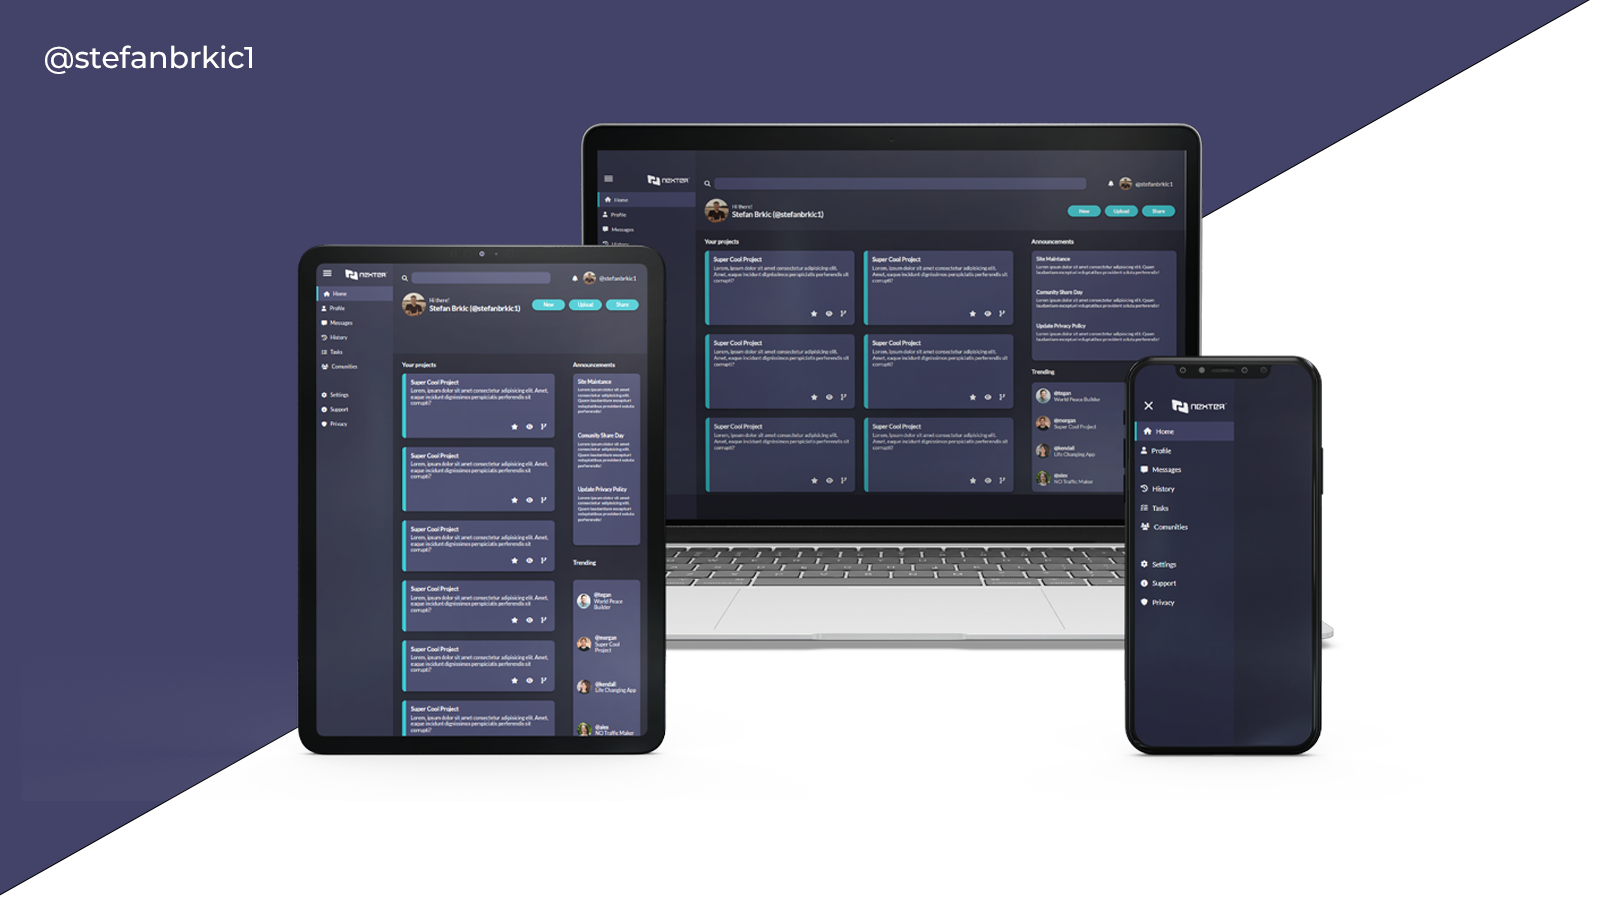
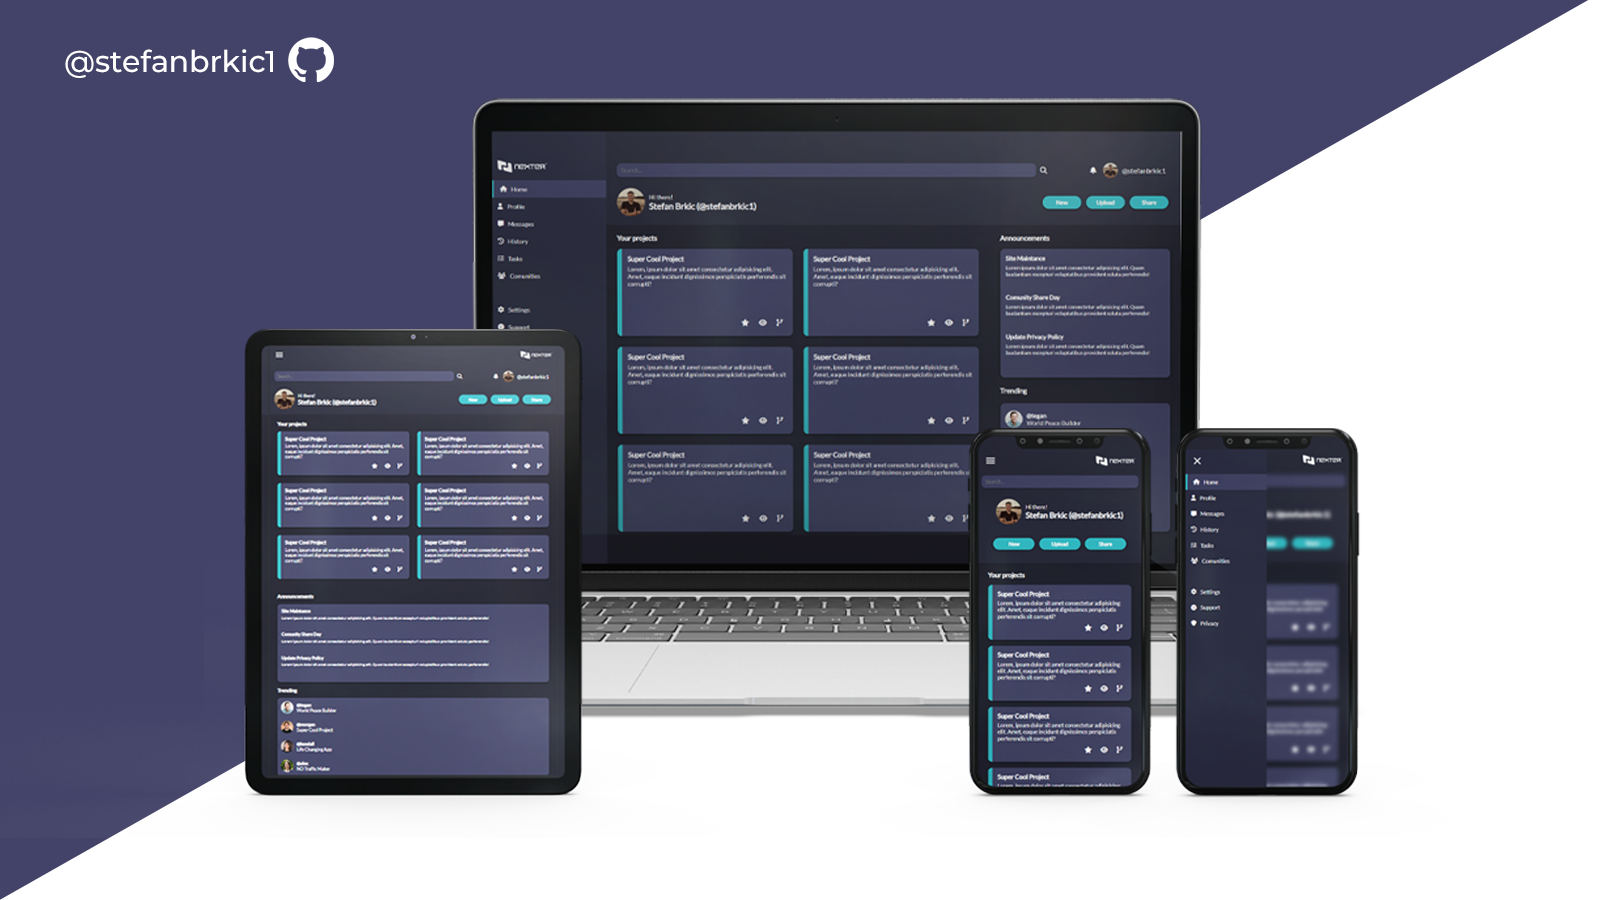
Update

diff --git a/README.md b/README.md
@@ -4,7 +4,7 @@ Admin dashboard web design using HTML and CSS. Click here [Link](https://stefanb
 <!-- ABOUT THE PROJECT -->
 ## Preview
 
-![SignUpPreview](img/DashboardPage.png)
+![SignUpPreview](img/Dashboard.png)
 ![SignUpPreviewDevices](img/Devices.png)
 
 > **Note**  
@@ -36,7 +36,7 @@ Admin dashboard web design using HTML and CSS. Click here [Link](https://stefanb
 
 ## Features
 - Modern UI/UX design
-- **Responsive** for both **Desktop** & **Mobile**
+- **Responsive** for all devices **Desktop** , **Tablet** & **Mobile**
 
 <br>
 
